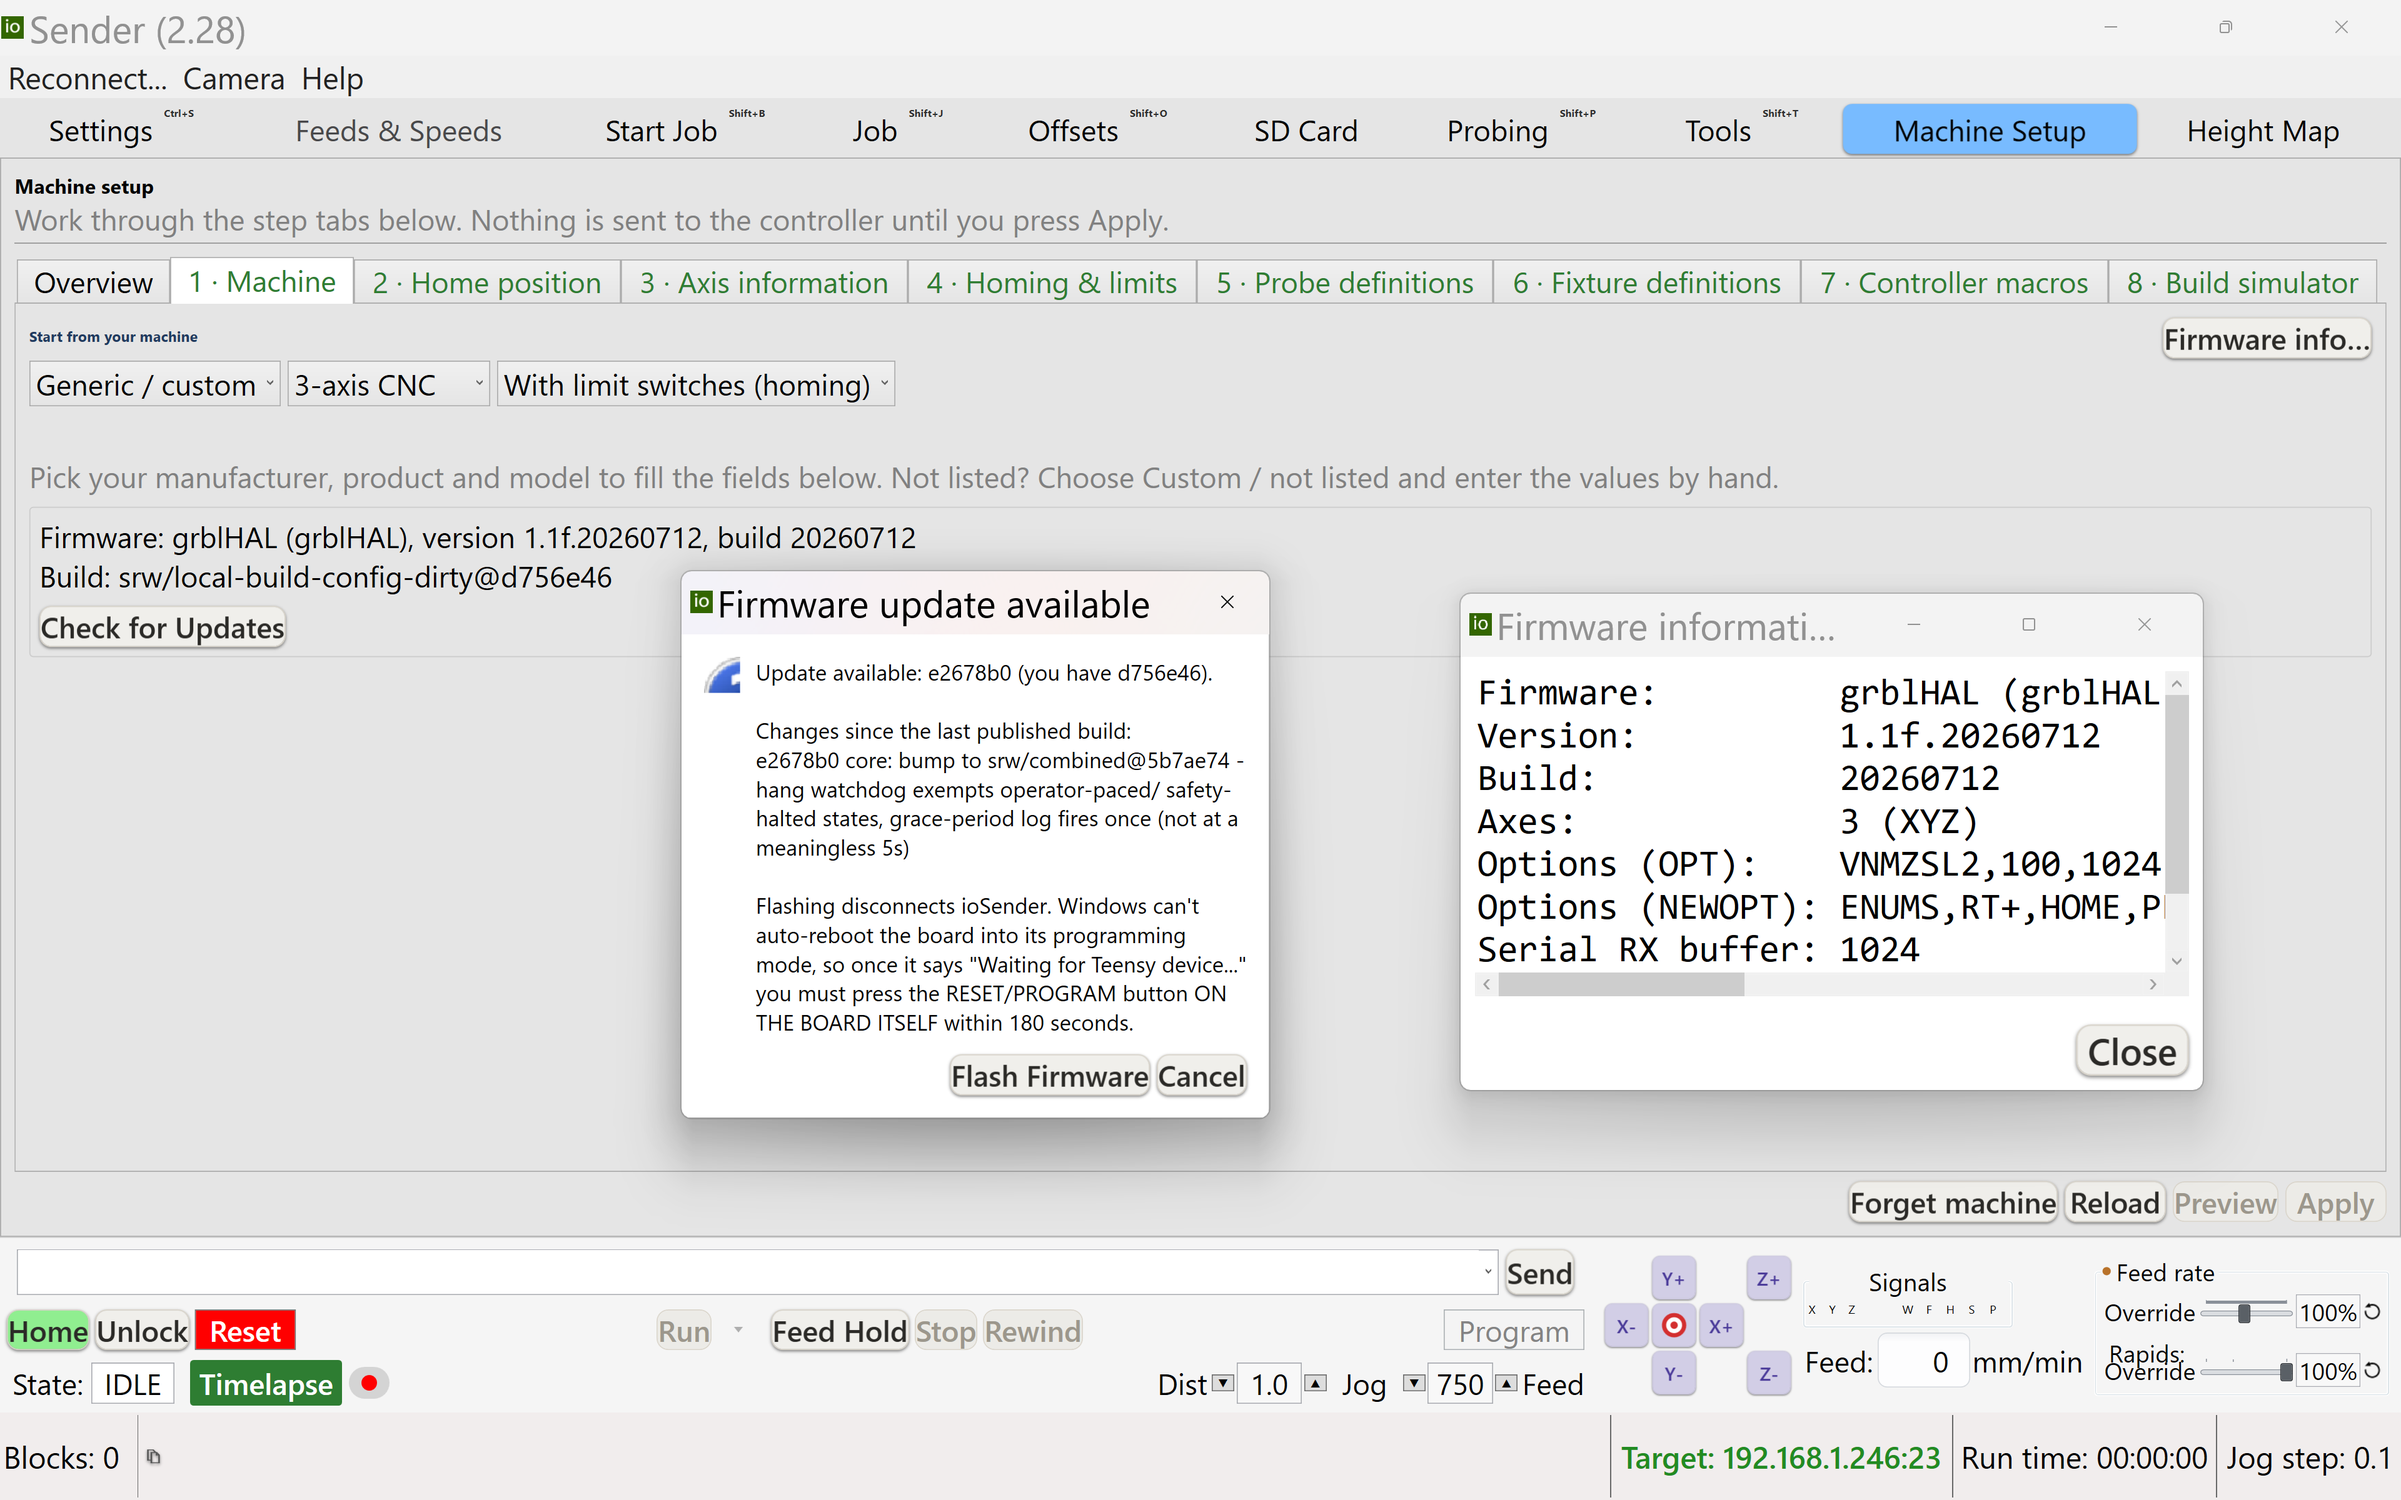
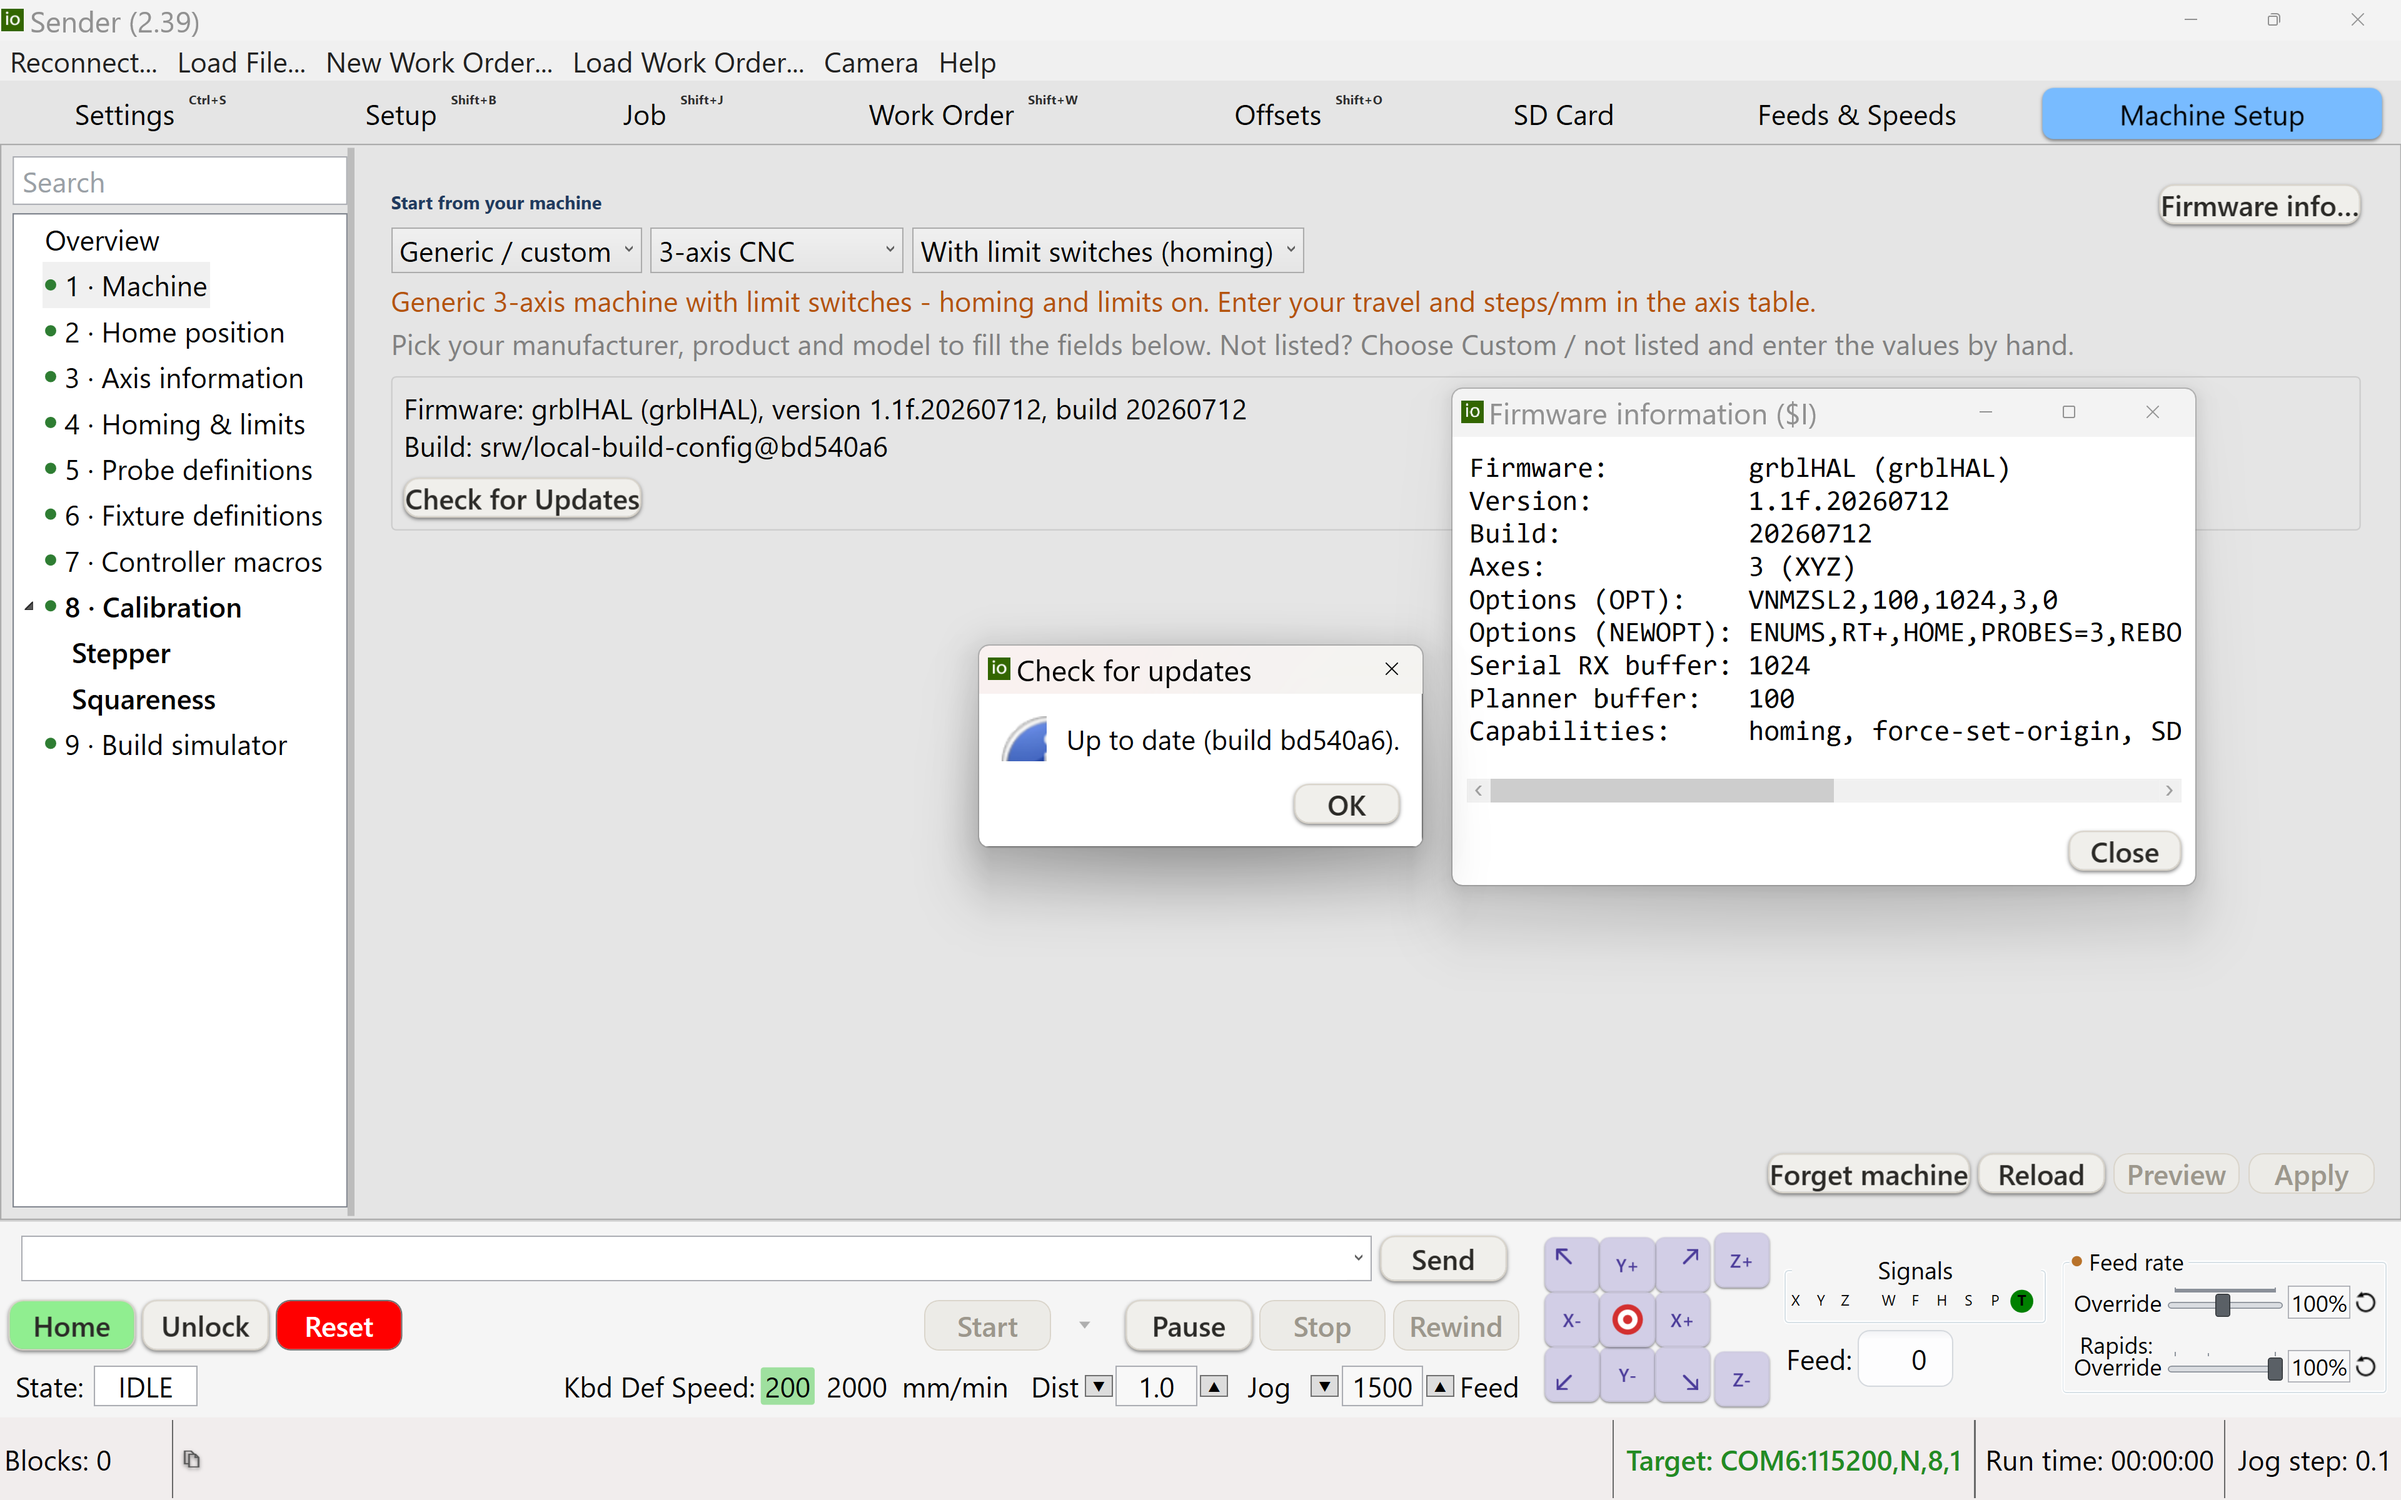
Manual: reshoot machine-setup-overview.png for the nav tree
Replaces the pre-#208 tab-strip shot. Framed on step 1 rather than the
Overview page, which shows all nine steps and their status dots in the
tree - and incidentally avoids photographing the Overview body, whose
in-app step list is still stale (six entries, mislabelled from 6 on).
That app bug is unchanged and still tracked in MANUAL-DEBT.md; it just
no longer blocks the screenshot.

Caption and bullets trued to what the shot shows: Check for Updates
reporting "Up to date" rather than the update-available prompt the old
text described, and the $I firmware window.

Last reshoot cleared - the $Reshoot table is now empty.

diff --git a/docs/manual/_image-review.html b/docs/manual/_image-review.html
@@ -24,11 +24,10 @@ h1 { font-size:16px; font-weight:600; margin:0 0 4px; }
 .pill.current { background:#2ecc71; color:#132; }
 </style></head>
 <body>
-<h1>Manual screenshot status - 1 reshoot &middot; 2 wanted &middot; 4 orphaned &middot; 13 current</h1>
-<div class="sub">generated 2026-08-03 07:44 by tools\gen-image-review.ps1 &middot; status derived from docs/manual/index.html
+<h1>Manual screenshot status - 2 wanted &middot; 4 orphaned &middot; 14 current</h1>
+<div class="sub">generated 2026-08-03 07:47 by tools\gen-image-review.ps1 &middot; status derived from docs/manual/index.html
 plus the $Wanted / $Reshoot tables in that script</div>
 <div class="grid">
-<div class='card reshoot'><img src='img/machine-setup-overview.png' loading='lazy'><div class='cap'><span class='pill reshoot'>reshoot</span> machine-setup-overview.png<br><span class='mtime'>2026-07-29 10:05:24</span><br><span class='note'>dead - shot before #208, and the step count went from eight to nine (#197 Calibration)</span></div></div>
 <div class='card wanted'><div class='ph'>shot needed</div><div class='cap'><span class='pill wanted'>wanted</span> machine-setup-calibration.png<br><span class='note'>Machine Setup &gt; 8 - Calibration &gt; Stepper: fixture pick, true/measured size, new steps/mm</span></div></div>
 <div class='card wanted'><div class='ph'>shot needed</div><div class='cap'><span class='pill wanted'>wanted</span> work-order-surface.png<br><span class='note'>a Work Order with a Surface toolpath selected, Entire Spoilboard ticked</span></div></div>
 <div class='card orphaned'><img src='img/heightmap.png' loading='lazy'><div class='cap'><span class='pill orphaned'>orphaned</span> heightmap.png<br><span class='mtime'>2026-07-29 10:05:24</span><br><span class='note'>orphaned - nothing in index.html references it (kept: git history makes it recoverable)</span></div></div>
@@ -41,6 +40,7 @@ plus the $Wanted / $Reshoot tables in that script</div>
 <div class='card current'><img src='img/gcode-viewer.png' loading='lazy'><div class='cap'><span class='pill current'>current</span> gcode-viewer.png<br><span class='mtime'>2026-07-29 10:05:24</span></div></div>
 <div class='card current'><img src='img/job-runscreen.png' loading='lazy'><div class='cap'><span class='pill current'>current</span> job-runscreen.png<br><span class='mtime'>2026-08-01 05:45:02</span></div></div>
 <div class='card current'><img src='img/lathe-wizard.png' loading='lazy'><div class='cap'><span class='pill current'>current</span> lathe-wizard.png<br><span class='mtime'>2026-07-29 10:05:24</span></div></div>
+<div class='card current'><img src='img/machine-setup-overview.png' loading='lazy'><div class='cap'><span class='pill current'>current</span> machine-setup-overview.png<br><span class='mtime'>2026-08-03 07:46:00</span></div></div>
 <div class='card current'><img src='img/offsets-table.png' loading='lazy'><div class='cap'><span class='pill current'>current</span> offsets-table.png<br><span class='mtime'>2026-08-01 05:59:46</span></div></div>
 <div class='card current'><img src='img/sdcard.png' loading='lazy'><div class='cap'><span class='pill current'>current</span> sdcard.png<br><span class='mtime'>2026-08-01 06:06:17</span></div></div>
 <div class='card current'><img src='img/settings-grbl.png' loading='lazy'><div class='cap'><span class='pill current'>current</span> settings-grbl.png<br><span class='mtime'>2026-08-03 07:23:18</span></div></div>

diff --git a/docs/manual/index.html b/docs/manual/index.html
@@ -1095,16 +1095,18 @@
     <h2>Machine Setup — commissioning a new controller <a class="anchor" href="#machine-setup">#</a></h2>
     <div class="tags"><span class="tag int">Intermediate</span><span class="tag mac">Machinist</span></div>
     <figure>
-      <img src="img/machine-setup-overview.png" alt="The Machine Setup overview page listing the nine steps">
-      <figcaption>The Machine Setup overview and its nine guided steps.</figcaption>
+      <img src="img/machine-setup-overview.png" alt="Machine Setup on step 1, with all nine steps listed in the navigation tree">
+      <figcaption>Machine Setup on <strong>1 · Machine</strong>. All nine steps sit in the tree on the left,
+      each with its status dot — green here, meaning this machine is fully commissioned — and step 8 expanded
+      to its Stepper and Squareness pages.</figcaption>
     </figure>
     <p><strong>What you're looking at:</strong></p>
     <ul>
       <li>The numbered steps down the left (1–9, plus Overview) are the guided sequence — work top to bottom; nothing is sent to the controller until you press Apply. It's the same searchable navigation tree as <a href="#settings">Settings</a>, and each step carries a <strong>status dot</strong> — green done, orange needs attention, red not set — so you can see at a glance what's left.</li>
       <li><strong>Start from your machine</strong> — three dropdowns let you pick a known manufacturer/product/model (or Generic/custom) so the later steps start from sensible defaults instead of blank fields.</li>
       <li><strong>Firmware / Build</strong> — shows what's actually running on the connected controller right now; <strong>Check for Updates</strong> compares it against the latest published grblHAL build.</li>
-      <li><strong>Firmware update available</strong> (popup shown here) — appears when a newer build exists; <strong>Flash Firmware</strong> reprograms the board (this disconnects ioSender and needs the board's own RESET/PROGRAM button pressed within the time shown).</li>
-      <li><strong>Firmware information</strong> (popup shown here) — a read-only dump of the controller's reported firmware, version, build, axis count and enabled options — handy when reporting a problem.</li>
+      <li><strong>Check for Updates</strong> compares the running build against the latest published grblHAL build — here it reports <em>Up to date</em>. When a newer build does exist you get a <strong>Firmware update available</strong> prompt instead, and <strong>Flash Firmware</strong> reprograms the board (this disconnects ioSender and needs the board's own RESET/PROGRAM button pressed within the time shown).</li>
+      <li><strong>Firmware information</strong> (the <code>$I</code> window shown here) — a read-only dump of the controller's reported firmware, version, build, axis count and enabled options — handy when reporting a problem.</li>
       <li><strong>Forget machine / Reload / Preview / Apply</strong> (bottom right) — Apply is the only button that actually writes settings to the controller; Preview lets you review the resulting <code>$</code> settings first.</li>
     </ul>
     <p><strong>Machine Setup</strong> is a guided wizard that walks you through the settings a new machine
